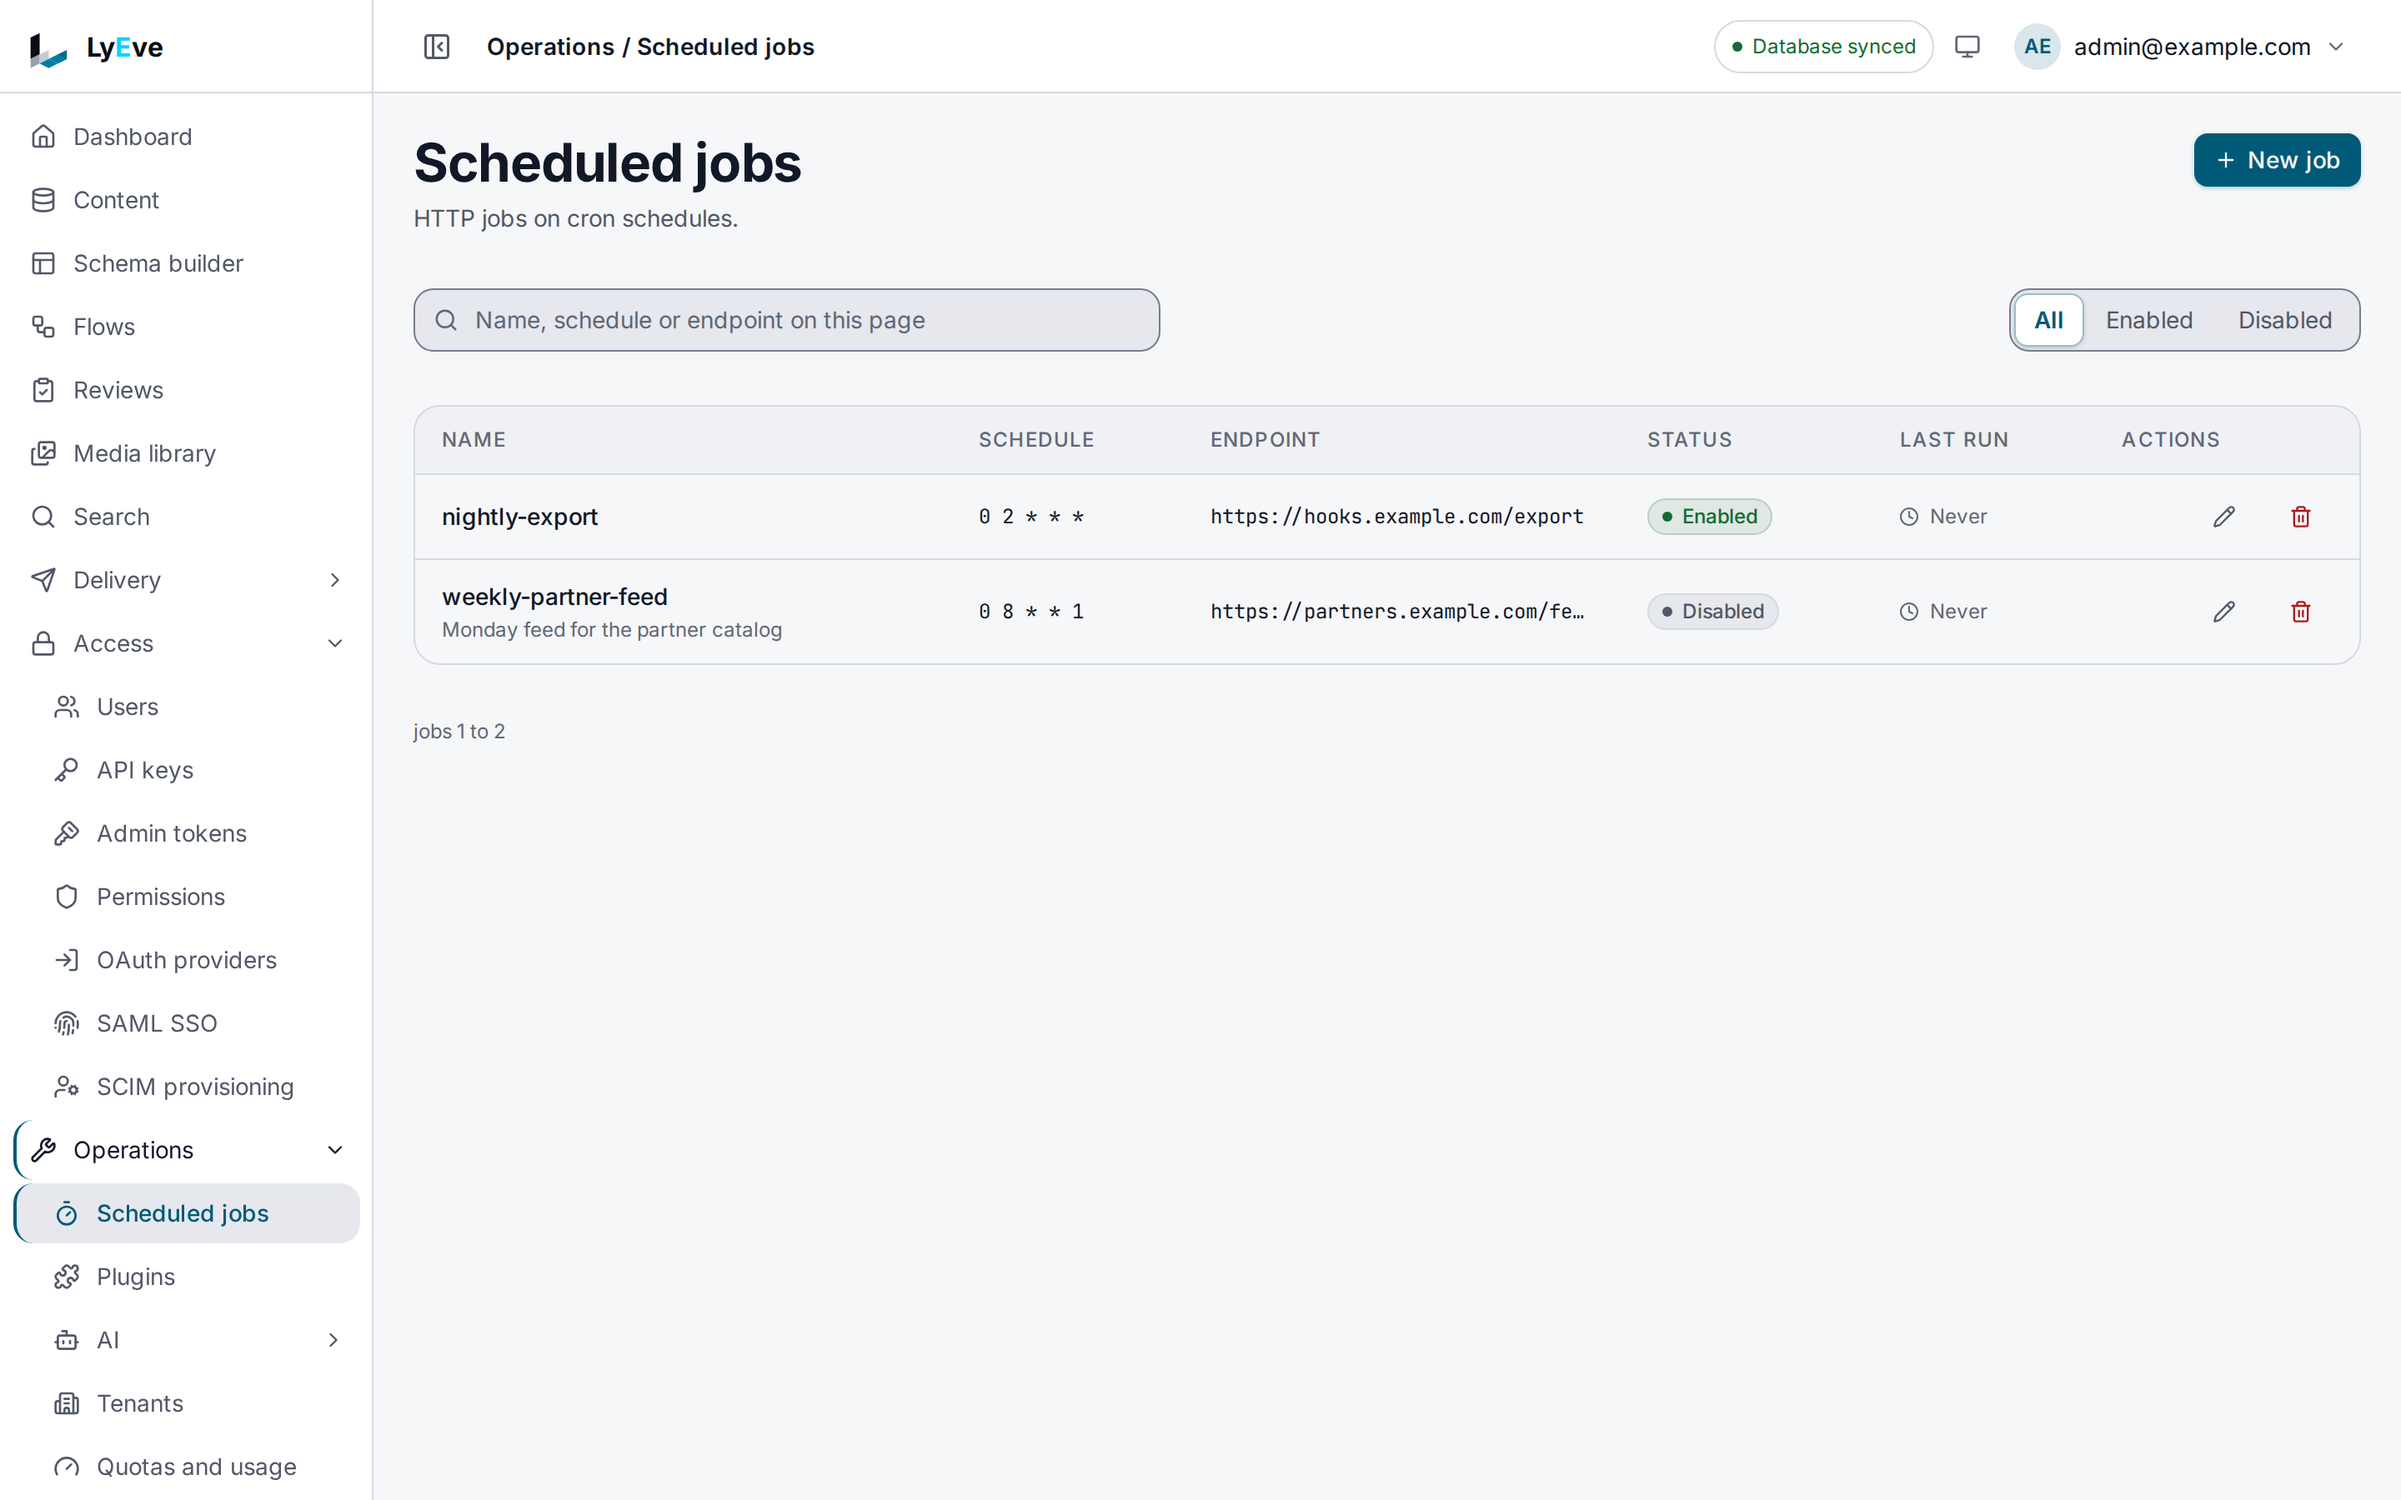
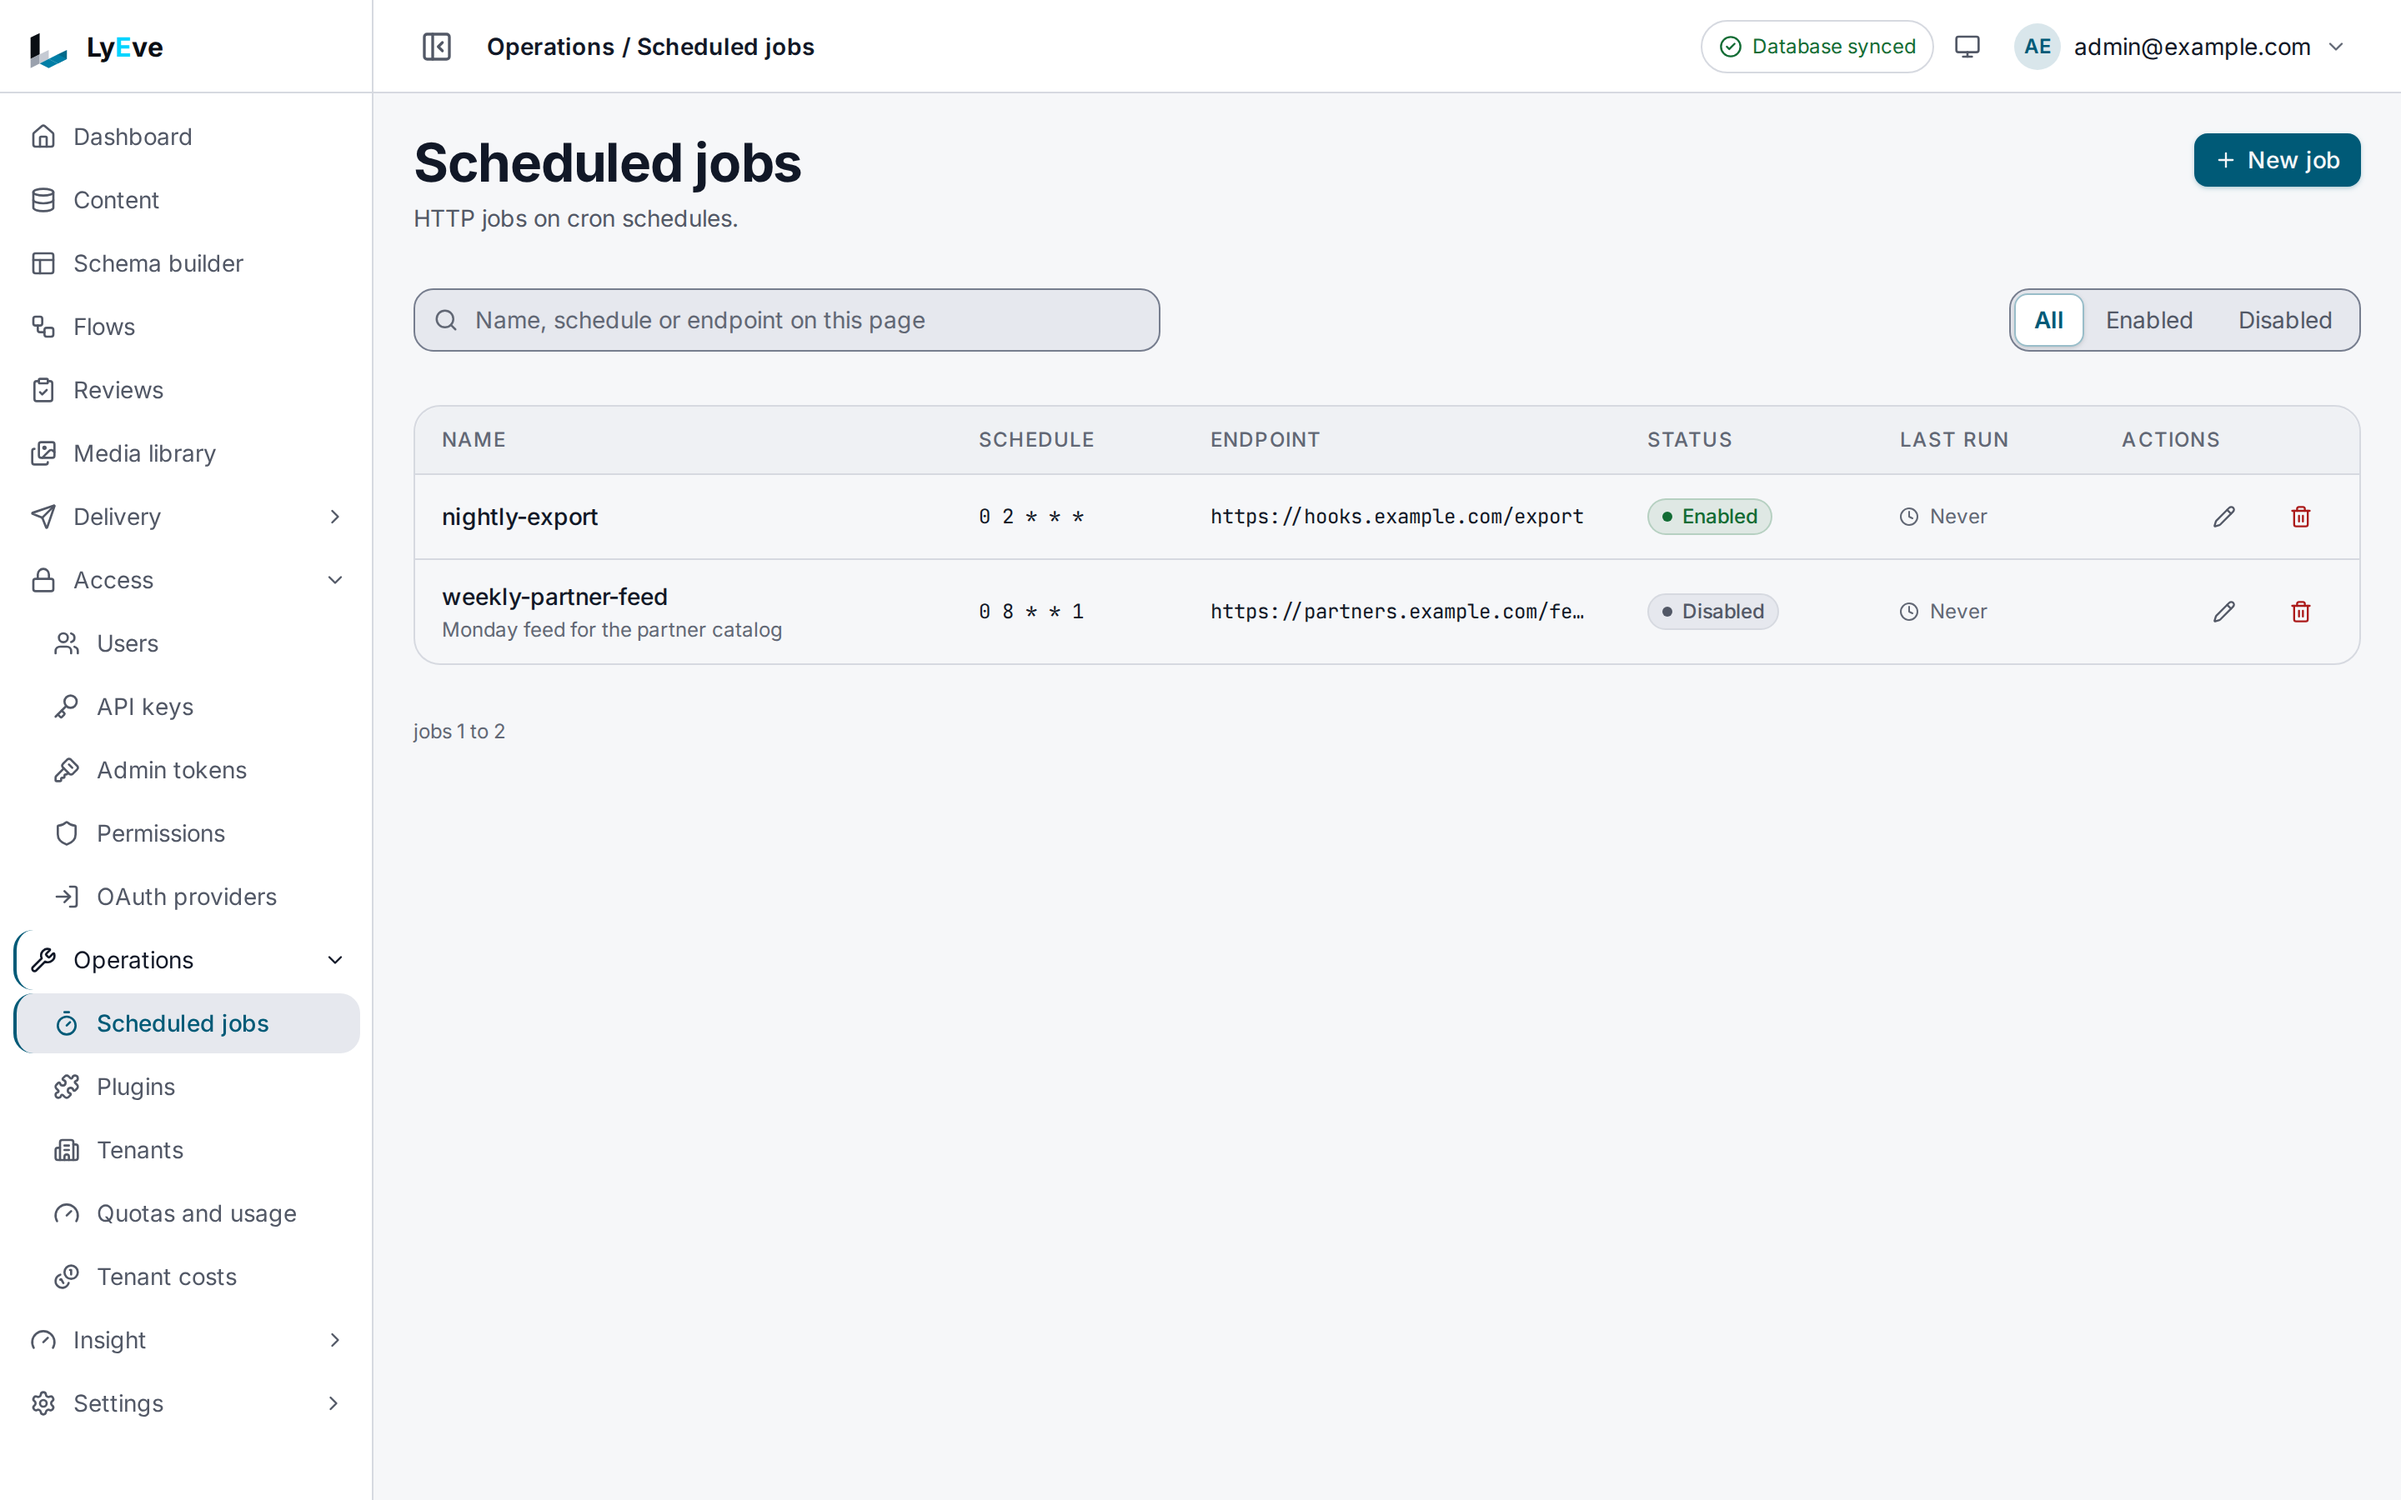
docs: correct webhook payloads, template filters and alert screens
The webhooks page and the webhook guide now show the body a receiver gets
for an entry saved in the admin console, and the guide says to export the
secret and the token again in the terminal that registers the receiver. The
custom API guide, the flow reference example and the join template now agree
on the state field, and the templates page says what a status field does in
the console. The flow catalog page says the instance's own copy lags it, and
the probe alert step looks up the probe id. The webhooks, scheduled jobs and
spike alerts screenshots are retaken on a free install.

Task: FEAT-3TN111ZJPGW

diff --git a/docs/how-to/add-a-webhook.md b/docs/how-to/add-a-webhook.md
@@ -165,6 +165,11 @@ node receiver.mjs        # or: python3 receiver.py
 listening on http://localhost:8787
 ```
 
+The receiver keeps this terminal. Run the API steps below in a second one, and
+export `WEBHOOK_SECRET` with the same value there, and `TOKEN` too. In a
+terminal where `WEBHOOK_SECRET` is unset, step 2 registers the webhook with no
+secret, and the receiver prints `refused: unsigned request` for every delivery.
+
 Both print the fields of the standard body. If you give the webhook a
 `payload_template`, the body is your own JSON, so change the line that prints
 it. Both check the raw bytes. If you move the check into a framework, read the body
@@ -247,9 +252,14 @@ Open **Content**, pick **Post** and choose **New entry**. Enter
 `Webhook check` in **Title** and `Hello` in **Body**, then choose **Create**.
 
 Within a moment the receiver prints an `after_create` line. An entry saved in
-console v0.21.0 arrives as the console stores it: the fields you typed sit
-under `body`, beside the entry's `id`, `slug`, `status`, `title` and its
-timestamps.
+console v0.21.0 arrives as the console stores it. The fields you typed sit in
+an object under `body`, which also holds the post's own `body` field, and
+beside that object are the entry's `id`, `slug`, `status`, `title`, its
+timestamps and the accounts that wrote it:
+
+```text
+accepted: after_create post {"_status":"draft","body":{"author_id":null,"body":"<p>Hello</p>","slug":null,"title":"Webhook check"},"created_at":"2026-10-23T16:31:35.423506701Z","created_by":"59ef432d-cfa3-4dc3-b90a-87f2eff13558","current_rev":1,"id":"8371ea04-24e5-49a8-93b0-0bb8b7d4baff","meta":{},"schema":"post","slug":"webhook-check-omh0mr","status":"draft","tenant_id":"default","timezone":"UTC","title":"Webhook check","updated_at":"2026-10-23T16:31:35.423506701Z","updated_by":"59ef432d-cfa3-4dc3-b90a-87f2eff13558"}
+```
 
 </div>
 <div data-path="api">

diff --git a/docs/features/webhooks.md b/docs/features/webhooks.md
@@ -100,7 +100,8 @@ resolve to a public address when you save.
 5. Choose **Create**.
 
 The form in console v0.21.0 has no field list, so this webhook sends every
-field of the entry.
+field of the entry. An entry saved in the console arrives in the shape
+[What your endpoint receives](#what-your-endpoint-receives) shows for it.
 
 </div>
 <div data-path="api">
@@ -223,6 +224,45 @@ Without a payload template, the body is this envelope:
   "timestamp": "2026-10-01T10:00:00Z"
 }
 ```
+
+An entry saved in console v0.21.0 arrives as the console stores it. The
+fields you typed sit in an object under `data.body`, and `data` also carries
+the entry's `id`, `slug`, `status`, `title`, its timestamps and the accounts
+that wrote it. This is a `post` created in the console with `Hello` as its
+body:
+
+```json
+{
+  "event": "after_create",
+  "schema": "post",
+  "data": {
+    "_status": "draft",
+    "body": {
+      "author_id": null,
+      "body": "<p>Hello</p>",
+      "slug": null,
+      "title": "Webhook check"
+    },
+    "created_at": "2026-10-23T16:31:35.423506701Z",
+    "created_by": "59ef432d-cfa3-4dc3-b90a-87f2eff13558",
+    "current_rev": 1,
+    "id": "8371ea04-24e5-49a8-93b0-0bb8b7d4baff",
+    "meta": {},
+    "schema": "post",
+    "slug": "webhook-check-omh0mr",
+    "status": "draft",
+    "tenant_id": "default",
+    "timezone": "UTC",
+    "title": "Webhook check",
+    "updated_at": "2026-10-23T16:31:35.423506701Z",
+    "updated_by": "59ef432d-cfa3-4dc3-b90a-87f2eff13558"
+  },
+  "timestamp": "2026-10-23T16:31:35Z"
+}
+```
+
+An entry created with the API arrives with its fields directly in `data`, as
+in the first example.
 
 `event` is `after_create`, `after_update`, `after_delete`, or `test` for a test
 delivery. On `after_delete`, `data` is the entry as it was. On `after_update`,

diff --git a/docs/how-to/flow-templates.md b/docs/how-to/flow-templates.md
@@ -191,6 +191,13 @@ a signed-in session. See [connect outside systems](../features/flows.md#connect-
 
 ## What to know about each template
 
+Several templates read or write a content field named `status`, such as
+`join-three-tables-api`, `nightly-sheet-export`, `seo-sitemap`,
+`comment-moderation` and the `cdn-purge` filter below. On console v0.21.0 a
+field named `status` loses its value when an entry is saved in the console, so
+save those entries with the API, or give the field another name and change the
+template to read it.
+
 ### `join-three-tables-api`
 
 Loads orders filtered by `?status=` (default `open`) and, when you pass one, by
@@ -199,7 +206,10 @@ them. Its slug is `orders-with-customers`. An answer is cached for 30 seconds
 per customer and status, and each signed-in user, or each client address, may
 call it 120 times a minute.
 [Build a custom API with flows](build-a-custom-api-with-flows.md) builds a
-smaller version step by step.
+smaller version step by step, on an `orders` type whose field is `state`. To
+run this template on those types, open the `orders` node and change both
+`status:` keys in **filters** to `state:`. Without the change, a test fails
+with `unknown filter field "status"`. The query parameter stays `?status=`.
 
 ### `bulk-import`
 

diff --git a/docs/features/alerts.md b/docs/features/alerts.md
@@ -78,7 +78,7 @@ five fields: **Email**, **Slack webhook URL**, **Discord webhook URL**,
 | Log volume | **Insight > Logs**, then **Volume alerts**. Each rule from **New rule** has its own **Channels**. |
 | An uptime probe | **Insight > Observability > Synthetic monitoring**, then **Notice channels** on the probe's row. |
 
-![The Spike alerts page with two addresses in Email and a webhook address in Slack webhook URL, above the Discord, HTTPS webhook and PagerDuty fields.](images/alerts.png)
+![The Spike alerts page on an install without alerts-pro: two addresses in Email, then Not enabled on this instance above the empty Slack, Discord, HTTPS webhook and PagerDuty fields.](images/alerts.png)
 
 ## Try it
 
@@ -346,6 +346,16 @@ and choose **Save**.
 
 </div>
 <div data-path="api">
+
+Look up the probe's id by its name, here `Public site`:
+
+```bash
+PROBE_ID=$(curl -s http://localhost:3001/api/admin/synthetic-monitoring/probes \
+  -H "Authorization: Bearer $TOKEN" \
+  | jq -r '.[] | select(.name == "Public site") | .id')
+```
+
+Then set its channels:
 
 ```bash
 curl -X PUT http://localhost:3001/api/admin/synthetic-monitoring/probes/$PROBE_ID/alert-channels \

diff --git a/docs/reference/flow-catalog-for-language-models.md b/docs/reference/flow-catalog-for-language-models.md
@@ -17,10 +17,13 @@ any other flow.
 ## Use it with your own model
 
 **1. Give the model the catalog.** Copy everything from the heading
-"LyEve flow definitions" to the end of this page into the model's context. Or
-download your instance's own copy, which also lists the nodes your other
-features add. Only the API serves that copy: console v0.21.0 has no download
-for it.
+"LyEve flow definitions" to the end of this page into the model's context.
+This page is the current copy. The instance also serves a copy of its own, but
+on engine v0.55.0 that copy lags this page: it leaves out the node types other
+features add, and it describes a few behaviors the engine no longer has, such
+as the output of `data.aggregate` without `group_by`. Use this page. Only the
+API serves the instance's copy, because console v0.21.0 has no download for
+it.
 
 ```bash
 curl "http://localhost:3001/api/admin/flows/catalog/llm" \

diff --git a/docs/how-to/build-a-custom-api-with-flows.md b/docs/how-to/build-a-custom-api-with-flows.md
@@ -472,7 +472,8 @@ send the import as a super admin with `X-Tenant-ID` naming that tenant, as
 ## Next
 
 - [Flow templates](flow-templates.md): eighteen starter flows, among them a
-  larger version of this one.
+  larger version of this one. It filters on a `status` field, so change its
+  `orders` filter to `state` to run it on the types from this guide.
 - [Keep the content model and flows in git](schema-and-flows-as-code.md):
   review flow files in pull requests and promote them on release.
 - [Flows](../features/flows.md#your-own-endpoint-path): serve the endpoint at a

diff --git a/docs/reference/flow-definition.md b/docs/reference/flow-definition.md
@@ -47,7 +47,7 @@ nodes:
     position: { x: 120, y: 200 }
     config:
       schema: orders
-      filters: { status: "{{ trigger.query.status ?? 'open' }}" }
+      filters: { state: "{{ trigger.query.state ?? 'open' }}" }
       populate: [customer]
       limit: 100
       sort: "-created_at"
